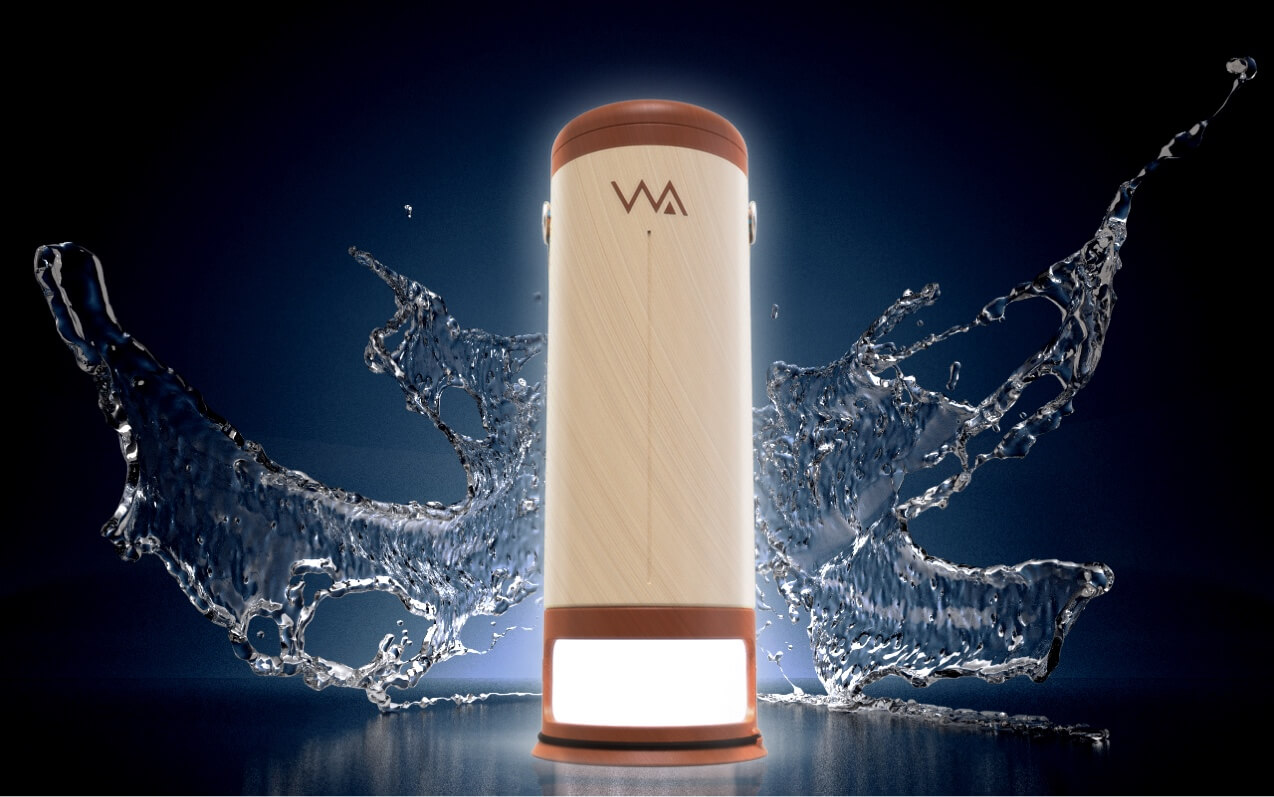
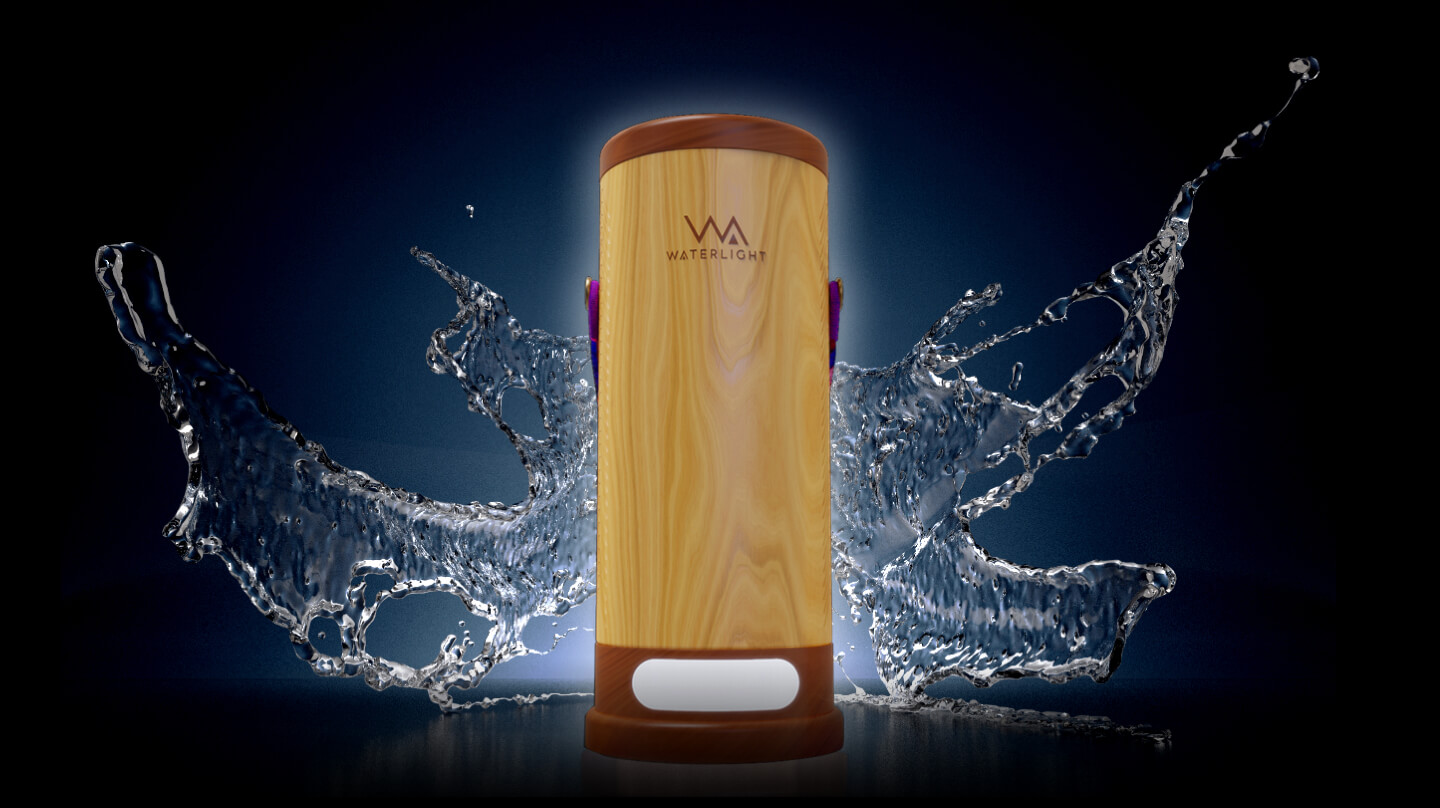
new secuence, update image product and solution

diff --git a/components/sections/sequence.jsx b/components/sections/sequence.jsx
@@ -15,11 +15,10 @@ const Sequence = () => {
     // ctx.globalCompositeOperation = "copy";
 
     let currentFrameIndex = 0;
-    const currentFrame = (index) => (`/images/sequence/ESCENA v5.${index.toString()}.png`)
-    // const currentFrame = (index) => (`/images/sequence/${index.toString().padStart(3, '0')}.png`)
+    const currentFrame = (index) => (`/images/sequence/${index.toString().padStart(3, '0')}.png`)
     // const currentFrame = (index) => (`https://www.apple.com/105/media/us/airpods-pro/2019/1299e2f5_9206_4470_b28e_08307a42f19b/anim/sequence/large/01-hero-lightpass/${index.toString().padStart(4, '0')}.jpg`)
 
-    const frameCount = 251;
+    const frameCount = 208;
     // const frameCount = 150;
 
     canvas.width = 1188;

diff --git a/components/sections/solution.jsx b/components/sections/solution.jsx
@@ -43,7 +43,8 @@ const Solution = () => {
     gsap.to('.solution-product', {
       scrollTrigger: {
         trigger: '.solution-product',
-        start: 'top 30%',
+        // start: 'top 30%',
+        start: 'bottom 110%',
         toggleActions: 'play reverse play reverse',
         // markers: true,
       },
@@ -101,7 +102,8 @@ const Solution = () => {
       </div>
 
       <div className="solution-product">
-        <img src="/images/solution-product.png" alt=""/>
+        {/* <img src="/images/solution-product.png" alt="" width="1374" height="1335"/> */}
+        <img src="/images/solution-product-alter.png" alt="" width="688" height="1390"/>
       </div>
 
       <div className="side-decorate">

diff --git a/pages/index.jsx b/pages/index.jsx
@@ -16,7 +16,7 @@ const HomePage = () => {
       <div className="award">
       
         <Welcome />
-        <Intro />
+        {/* <Intro /> */}
         <div className="award-background">
           <picture>
             <source media="(min-width: 768px)" srcSet="/images/intro-background.jpg"/>
@@ -28,11 +28,11 @@ const HomePage = () => {
 
       </div>
 
-      <Inspire />
+      {/* <Inspire /> */}
       <Solution />
-      <Showcase />
-      <Experience />
-      <Product />
+      {/* <Showcase /> */}
+      {/* <Experience /> */}
+      {/* <Product /> */}
 
     </main>
   )

diff --git a/components/sections/inspire.jsx b/components/sections/inspire.jsx
@@ -22,9 +22,9 @@ const Inspire = () => {
       },
     })
 
-    tlbg1.from('.inspire-background.bg-01', {opacity: 0, duration: 2})
-      .to('.inspire-background.bg-01', {opacity: 0})
-      .from('.inspire-background.bg-02', {opacity: 0})
+    tlbg1.from('.inspire-background.bg-01', {opacity: 0})
+      .to('.inspire-background.bg-01', {opacity: 0, duration: 0.5})
+      .from('.inspire-background.bg-02', {opacity: 0, duration: 2})
 
 
     // timeline head
